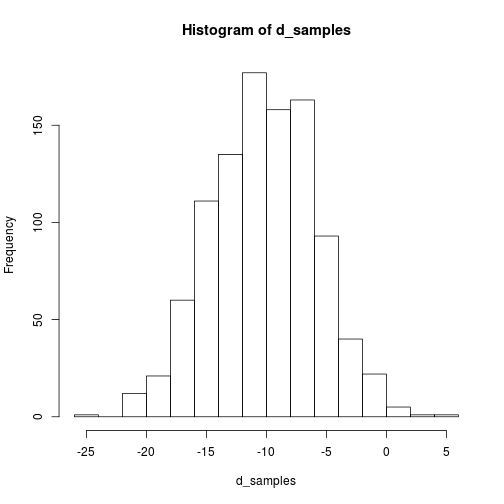
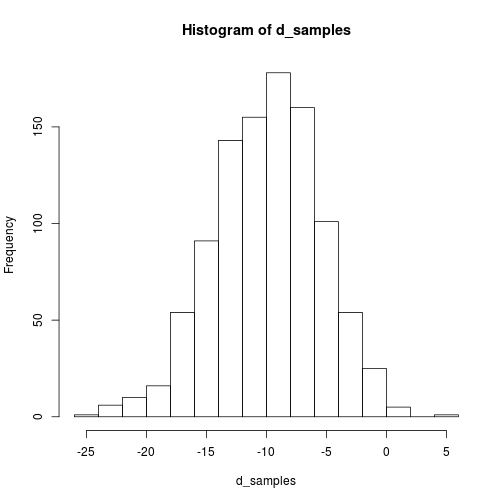
Work on Class 2 and the homework.

diff --git a/Class2/Class2.md b/Class2/Class2.md
@@ -3,6 +3,8 @@ Advanced Statistics
 author: Bernhard Angele 
 date: Class 2, October 9, 2014
 
+Some general advice on working with 
+
 Recap
 ========================================================
 - Last week, we talked a lot about sampling from different probability distribution.
@@ -118,6 +120,10 @@ qnorm(.975)
 $\bar{x} = \mu \pm 1.96 \times \sigma_{\bar{x}}$
 - Replacing $\sigma_{\bar{x}}$ with the expression based on the population SD:
 $\bar{x} = \mu \pm 1.96 \times \frac{\sigma}{\sqrt{n}}$
+
+Exercise
+=========================================================
+
 
 Now reverse the idea
 =========================================================
@@ -249,7 +255,7 @@ Computing CIs (2)
 ```
 
 ```
-[1] 3.061
+[1] 3.003
 ```
 
 ```r
@@ -257,7 +263,7 @@ Computing CIs (2)
 ```
 
 ```
-[1] 1.043
+[1] 1.149
 ```
 
 ```r
@@ -265,7 +271,7 @@ Computing CIs (2)
 ```
 
 ```
-[1] 2.314
+[1] 2.181
 ```
 
 ```r
@@ -273,7 +279,7 @@ Computing CIs (2)
 ```
 
 ```
-[1] 3.807
+[1] 3.826
 ```
 
 There's a function for that
@@ -288,13 +294,13 @@ t.test(sample_means)
 	One Sample t-test
 
 data:  sample_means
-t = 9.28, df = 9, p-value = 6.641e-06
+t = 8.262, df = 9, p-value = 1.709e-05
 alternative hypothesis: true mean is not equal to 0
 95 percent confidence interval:
- 2.314 3.807
+ 2.181 3.826
 sample estimates:
 mean of x 
-    3.061 
+    3.003 
 ```
 How convenient is that?
 
@@ -330,7 +336,7 @@ table(mean_in_ci)
 ```
 mean_in_ci
 FALSE  TRUE 
-   46   954 
+   54   946 
 ```
 - It's true! Almost exactly 5%
 
@@ -356,7 +362,7 @@ table(mean_in_ci)
 ```
 mean_in_ci
 FALSE  TRUE 
-   77   923 
+   80   920 
 ```
 - Larger than 5%! This is because the normal distribution is narrower than the t-distribution at low dfs.
 
@@ -371,7 +377,7 @@ table(mean_in_ci)
 ```
 mean_in_ci
 FALSE  TRUE 
-   68   932 
+   49   951 
 ```
 - Back at 5%! For large sample sizes it's fine to use the normal distribution instead of the t-distribution (of course, the t-distribution works anyway).
 - Could you have come up with this? You didn't have to thanks to the work William Sealy Gosset did back in 1908.
@@ -439,13 +445,13 @@ t.test(rnorm(n = 10, mean = 1, sd = 1))
 	One Sample t-test
 
 data:  rnorm(n = 10, mean = 1, sd = 1)
-t = 3.137, df = 9, p-value = 0.01198
+t = 6.072, df = 9, p-value = 0.0001855
 alternative hypothesis: true mean is not equal to 0
 95 percent confidence interval:
- 0.4432 2.7345
+ 0.7297 1.5964
 sample estimates:
 mean of x 
-    1.589 
+    1.163 
 ```
 
 Two-tailed t-tests
@@ -519,7 +525,7 @@ table(replicate(1000, t_test_sim(10, .5, 1)))
 ```
 
 FALSE  TRUE 
-  710   290 
+  707   293 
 ```
 Not so great!
 
@@ -535,7 +541,7 @@ table(replicate(1000, t_test_sim(n = 10, mean = 1, sd = 1)))
 ```
 
 FALSE  TRUE 
-  216   784 
+  174   826 
 ```
 - The standard deviation (i.e. the noise) in the population is lower
 
@@ -546,7 +552,7 @@ table(replicate(1000, t_test_sim(n = 10, mean = .5, sd = .5)))
 ```
 
 FALSE  TRUE 
-  188   812 
+  198   802 
 ```
 
 How to increase power (realistically!)
@@ -561,7 +567,7 @@ table(replicate(1000, t_test_sim(n = 20, mean = .5, sd = 1))) # not quite enough
 ```
 
 FALSE  TRUE 
-  430   570 
+  442   558 
 ```
 
 ```r
@@ -571,7 +577,7 @@ table(replicate(1000, t_test_sim(n = 40, mean = .5, sd = 1))) # now we're talkin
 ```
 
 FALSE  TRUE 
-  143   857 
+  125   875 
 ```
 
 Double-checking our results
@@ -649,7 +655,7 @@ table(replicate(1000, t_test_cheating_sim(n_max = 30, n_increments = 2, sd = 1))
 ```
 
 FALSE  TRUE 
-  751   249 
+  740   260 
 ```
 - Whoa! False positive alert!
   - $\alpha$ is at 25%, instead of 5% where it should be.
@@ -692,7 +698,7 @@ paste("Mean =", round(mean(d_samples), 2), "SD = ", round(sd(d_samples),2))
 ```
 
 ```
-[1] "Mean = -10.21 SD =  4.36"
+[1] "Mean = -9.94 SD =  4.4"
 ```
 
 ```r
@@ -713,7 +719,7 @@ sd(d_samples)
 ```
 
 ```
-[1] 6.903
+[1] 6.991
 ```
 
 ```r
@@ -722,7 +728,7 @@ sd(d_samples)
 ```
 
 ```
-[1] 7.209
+[1] 7.013
 ```
 
 The two-sample t-test (3)
@@ -735,7 +741,7 @@ sd(d_samples)
 ```
 
 ```
-[1] 5.418
+[1] 5.538
 ```
 
 ```r
@@ -744,7 +750,7 @@ sd(d_samples)
 ```
 
 ```
-[1] 6.723
+[1] 6.518
 ```
 - Looks like the sd of this distribution goes up as the sd of the two sample populations goes up and goes down as the size of one or both of the samples goes down.
 
